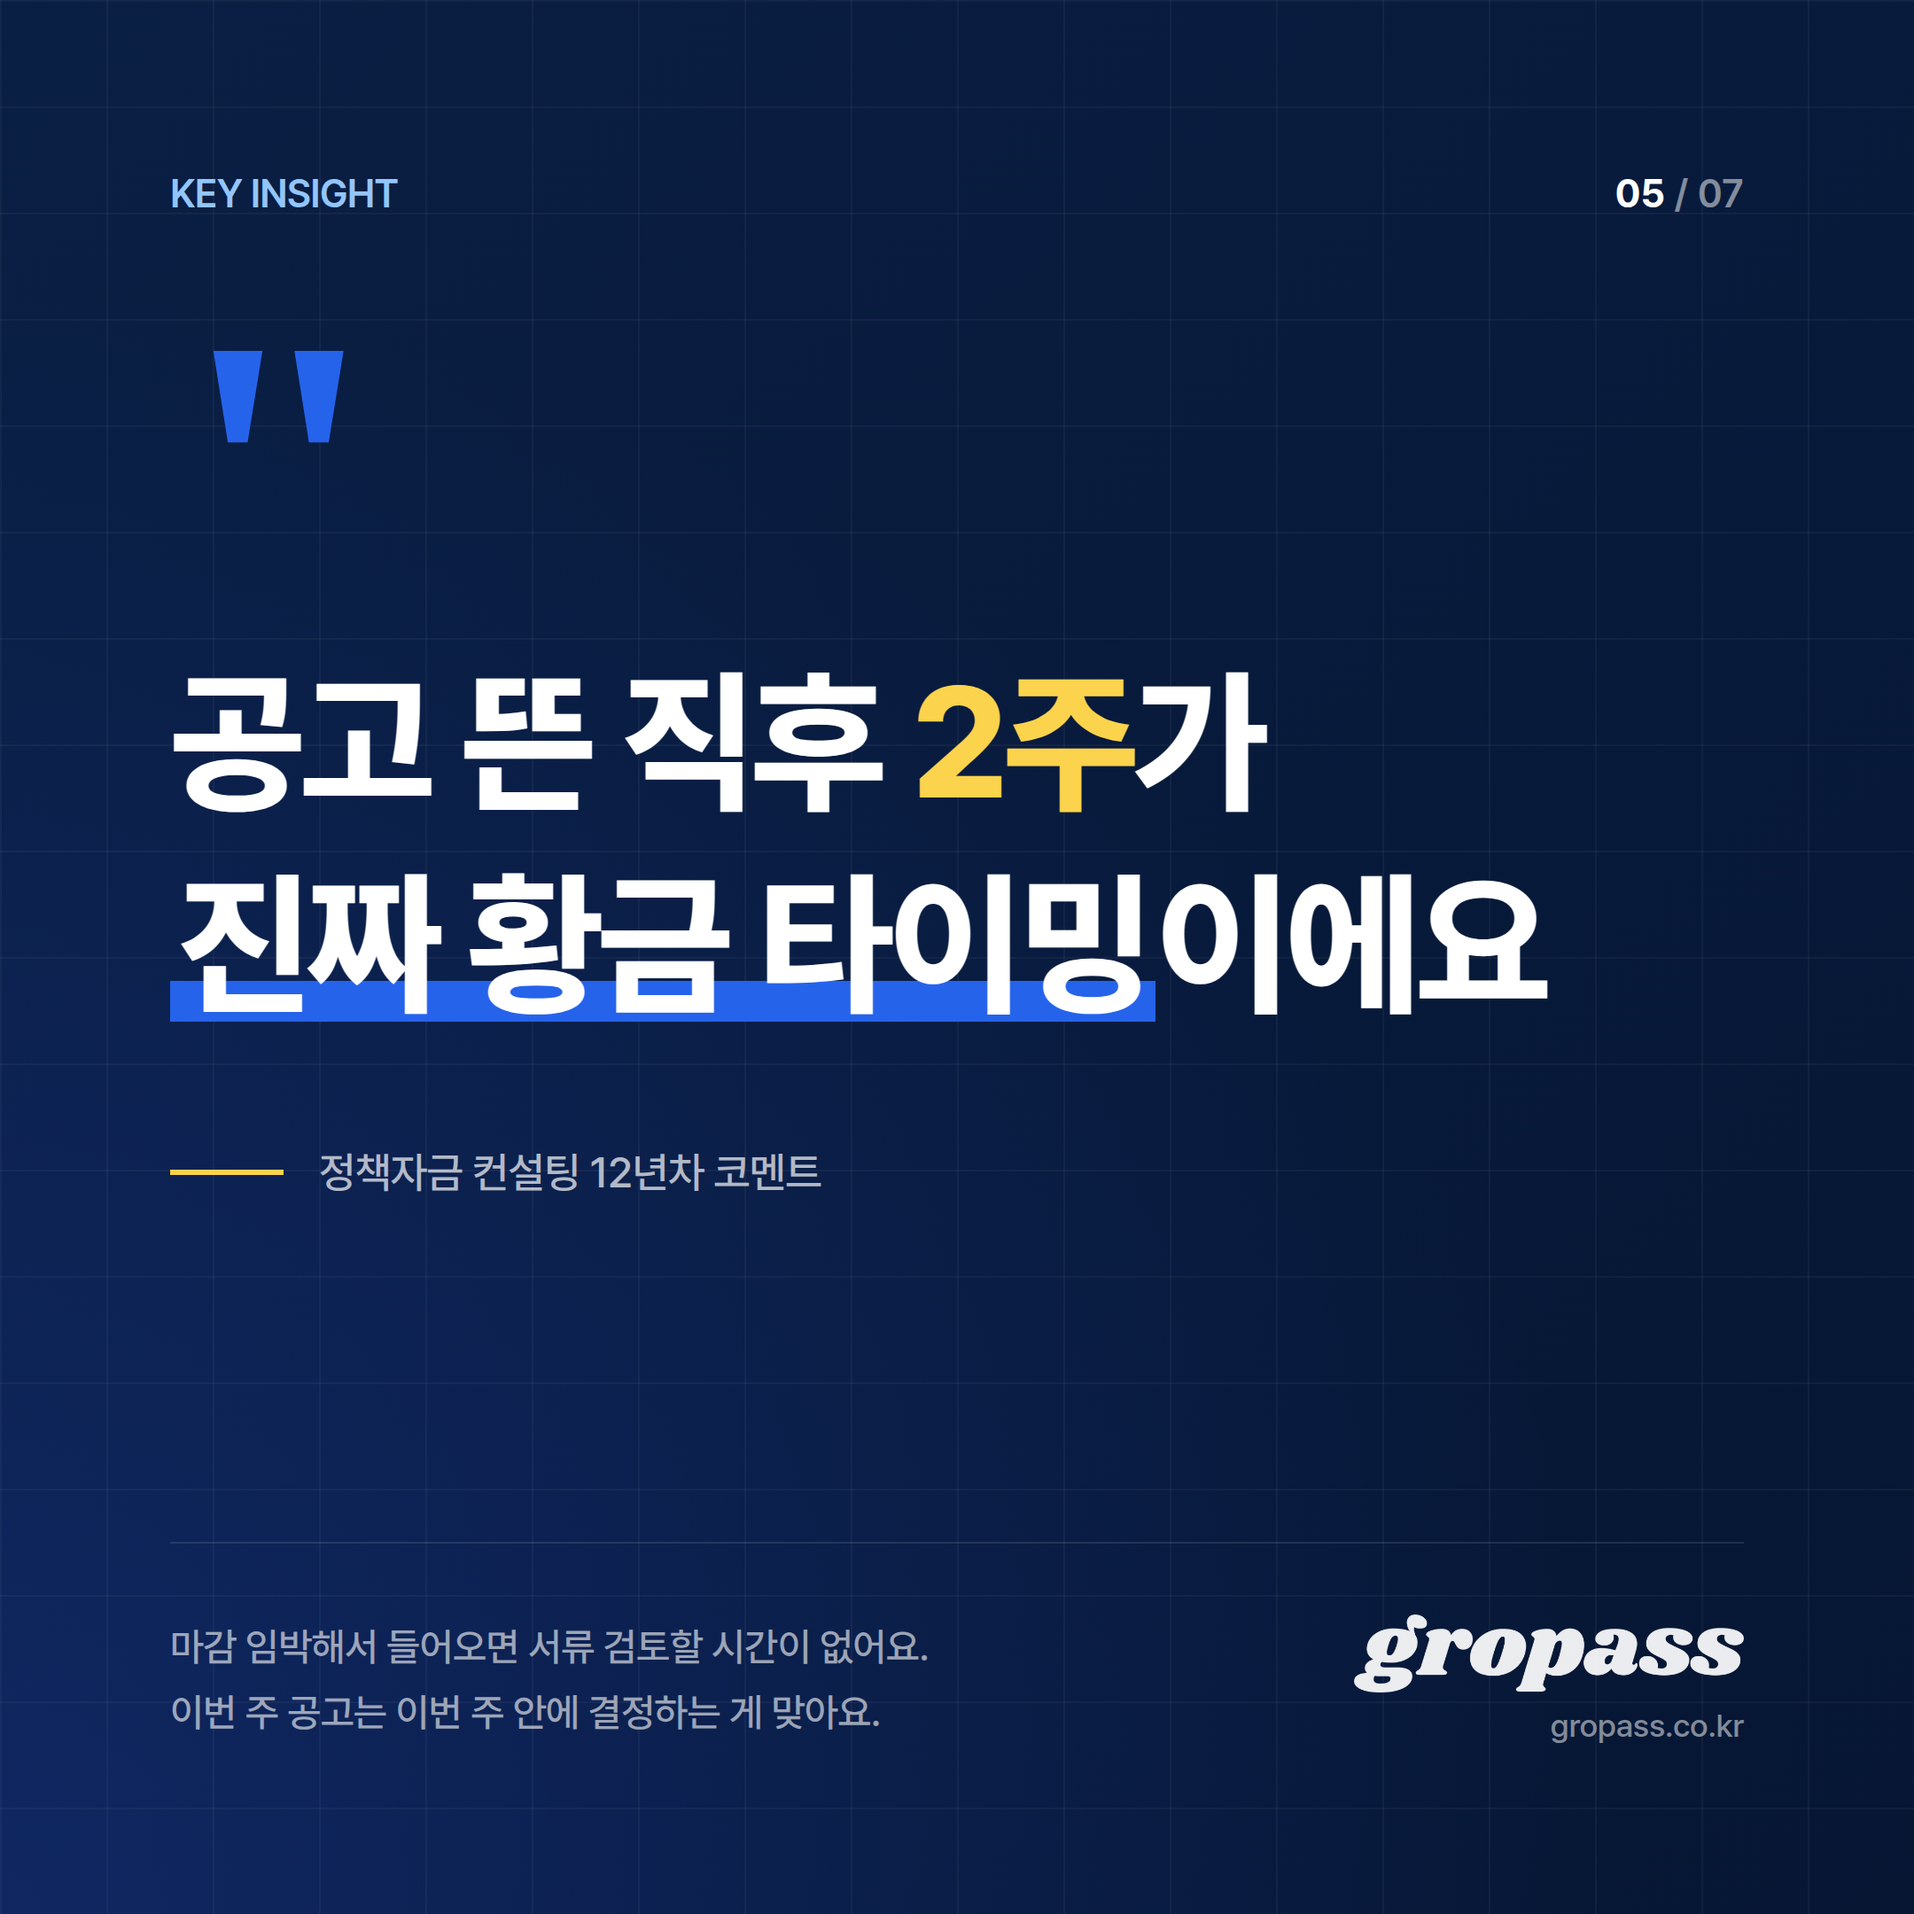
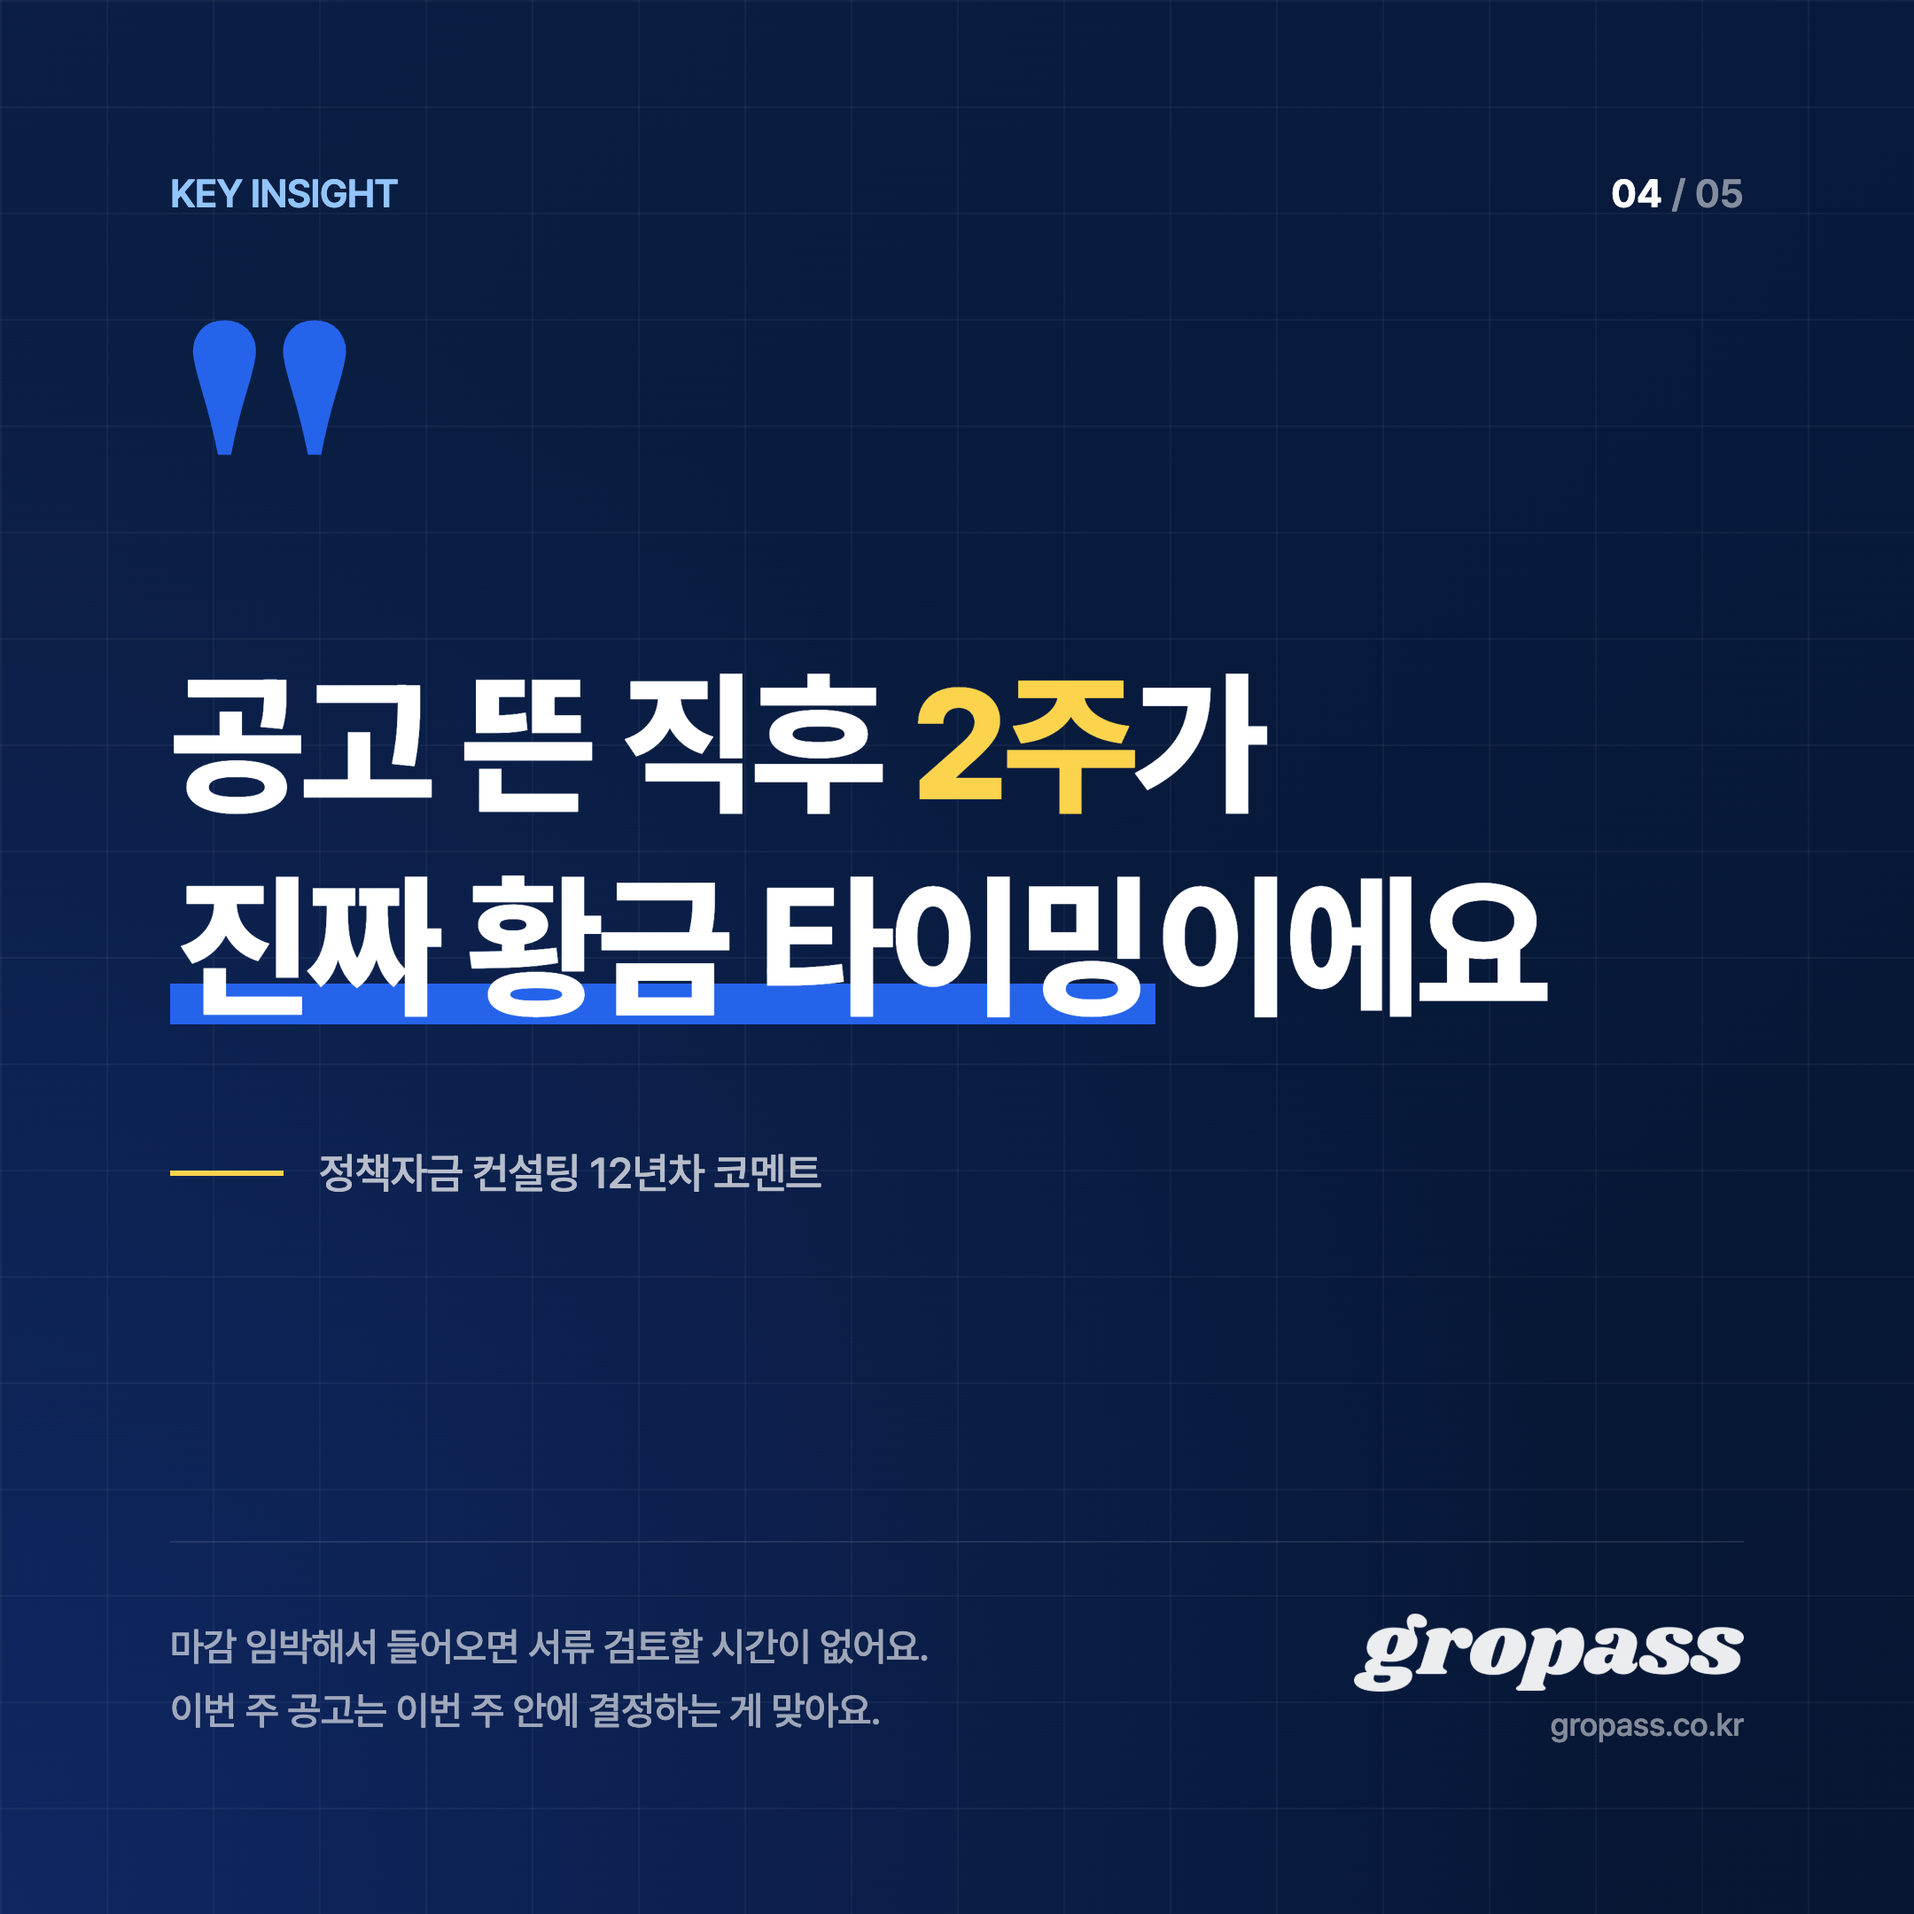
fix(carousel): 페이지 번호 5장 통일 + list 슬라이드 spacing 컴팩트화 (5번째 짤림 방지)

diff --git a/generate.js b/generate.js
@@ -138,7 +138,7 @@ function semanticToRenderData(s) {
     template: 'slide_02_info',
     content: {
       '.crumb span': '정책자금 위클리',
-      '.pager': '<strong>02</strong> / 07',
+      '.pager': '<strong>02</strong> / 05',
       '.num': '01',
       '.num-label': 'FIRST PICK',
       '.title': top.name,
@@ -156,7 +156,7 @@ function semanticToRenderData(s) {
   // 슬라이드 3: list (5개 모두)
   const listContent = {
     '.crumb': '정책자금 위클리 · 한눈에 보기',
-    '.pager': '<strong>06</strong> / 07',
+    '.pager': '<strong>03</strong> / 05',
     '.eyebrow': s.summary.eyebrow,
     '.title': s.summary.title,
     '.footer-hint': '상세 조건은 마지막 장에서 확인 →',
@@ -175,7 +175,7 @@ function semanticToRenderData(s) {
     template: 'slide_04_quote',
     content: {
       '.crumb': s.insight.eyebrow,
-      '.pager': '<strong>05</strong> / 07',
+      '.pager': '<strong>04</strong> / 05',
       '.quote': s.insight.quote,
       '.att-text': s.insight.attribution,
       '.footer-quote': s.insight.footer,
@@ -188,7 +188,7 @@ function semanticToRenderData(s) {
     template: 'slide_05_cta',
     content: {
       '.crumb': '정책자금 위클리 · 마무리',
-      '.pager': '<strong>07</strong> / 07',
+      '.pager': '<strong>05</strong> / 05',
       '.badge': s.cta.badge,
       '.headline': s.cta.headline,
       '.sub': s.cta.sub,

diff --git a/slide_03_list.html b/slide_03_list.html
@@ -46,9 +46,9 @@
   }
   .title {
     color: #0A1F44;
-    font-size: 64px;
+    font-size: 56px;
     font-weight: 800;
-    line-height: 1.3;
+    line-height: 1.25;
     letter-spacing: -0.03em;
   }
   .title em {
@@ -57,15 +57,15 @@
   }
 
   .list {
-    margin-top: 40px;
+    margin-top: 32px;
     display: flex;
     flex-direction: column;
-    gap: 16px;
+    gap: 12px;
   }
   .item {
     background: #FFFFFF;
-    border-radius: 20px;
-    padding: 24px 32px;
+    border-radius: 18px;
+    padding: 20px 26px;
     display: flex;
     align-items: center;
     gap: 24px;
@@ -89,18 +89,18 @@
   .item-body { flex: 1; min-width: 0; }
   .item-name {
     color: #0A1F44;
-    font-size: 30px;
+    font-size: 27px;
     font-weight: 700;
     letter-spacing: -0.015em;
-    line-height: 1.35;
+    line-height: 1.3;
   }
   .item-desc {
     color: #64748B;
-    font-size: 21px;
+    font-size: 19px;
     font-weight: 500;
     letter-spacing: -0.01em;
-    line-height: 1.5;
-    margin-top: 10px;
+    line-height: 1.45;
+    margin-top: 8px;
   }
   .item-meta {
     flex-shrink: 0;
